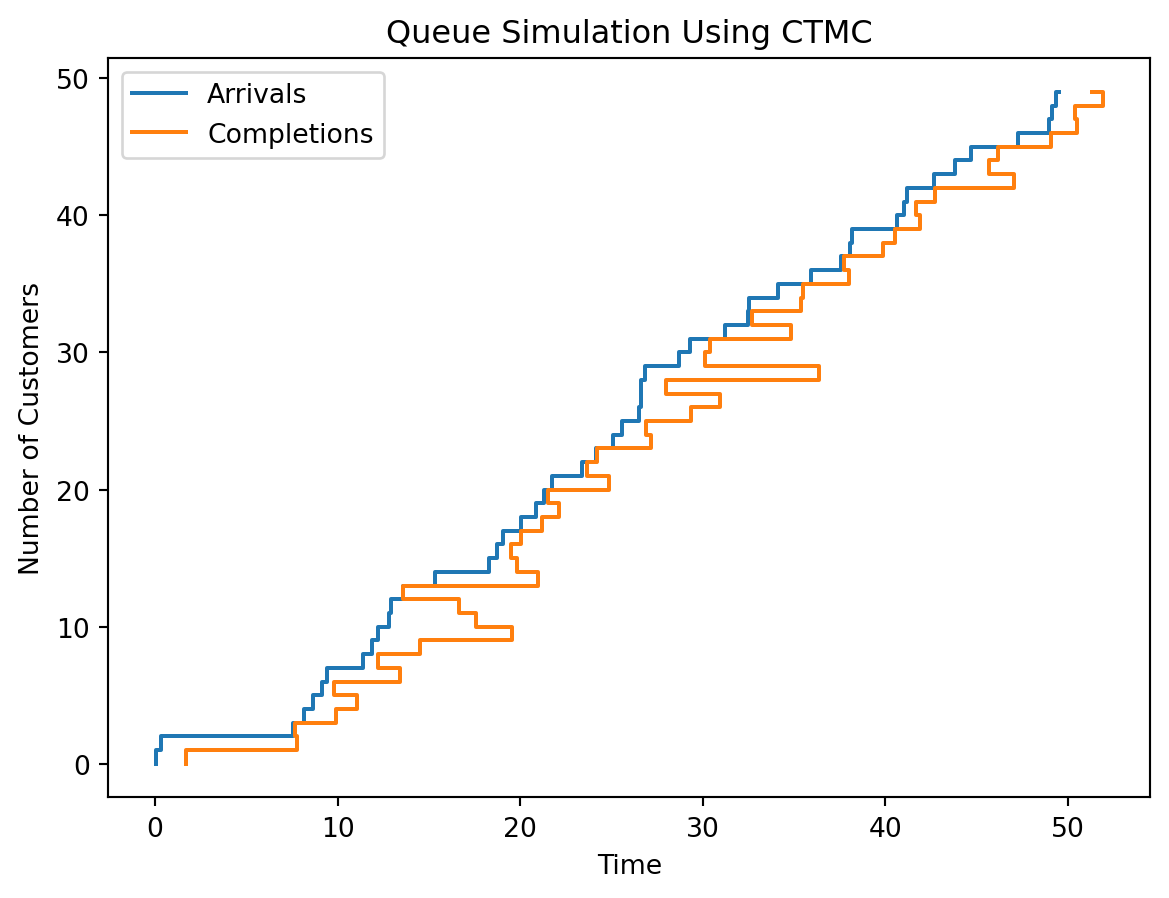
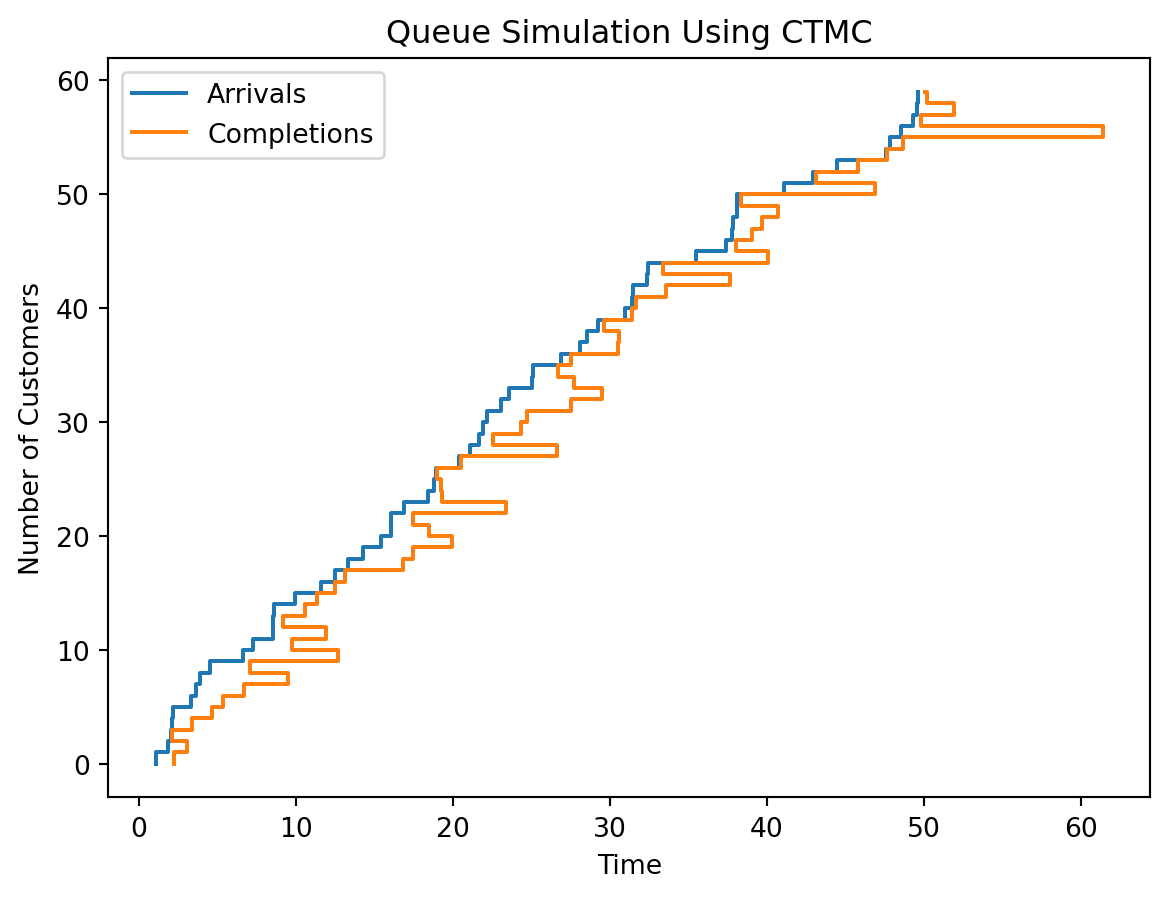
Minor

diff --git a/notes/2024-05-03.html b/notes/2024-05-03.html
@@ -165,7 +165,7 @@ window.Quarto = {
 <p>Let’s simulate both to illustrate the differences:</p>
 <p><strong>1. Simulating a Markov Chain (Discrete Time) - Gambler’s Ruin Example:</strong></p>
 <p>Here we simulate a gambler who bets until they either reach $100 or lose all their money, starting with $50, betting $1 at a time with equal probabilities of winning or losing.</p>
-<div id="9655323f" class="cell" data-execution_count="1">
+<div id="d7dd5114" class="cell" data-execution_count="1">
 <div class="sourceCode cell-code" id="cb1"><pre class="sourceCode python code-with-copy"><code class="sourceCode python"><span id="cb1-1"><a href="#cb1-1" aria-hidden="true" tabindex="-1"></a><span class="im">import</span> numpy <span class="im">as</span> np</span>
 <span id="cb1-2"><a href="#cb1-2" aria-hidden="true" tabindex="-1"></a><span class="im">import</span> matplotlib.pyplot <span class="im">as</span> plt</span>
 <span id="cb1-3"><a href="#cb1-3" aria-hidden="true" tabindex="-1"></a></span>
@@ -194,7 +194,7 @@ window.Quarto = {
 </div>
 <p><strong>2. Simulating a Continuous-Time Markov Chain (CTMC) - Simple Queue System:</strong></p>
 <p>We simulate a queue system where customers arrive according to a Poisson process (CTMC aspect), and each customer has a service time that is exponentially distributed.</p>
-<div id="09b34fbf" class="cell" data-execution_count="2">
+<div id="a9b2eb24" class="cell" data-execution_count="2">
 <div class="sourceCode cell-code" id="cb2"><pre class="sourceCode python code-with-copy"><code class="sourceCode python"><span id="cb2-1"><a href="#cb2-1" aria-hidden="true" tabindex="-1"></a><span class="kw">def</span> ctmc_queue_simulation(lam, mu, max_time):</span>
 <span id="cb2-2"><a href="#cb2-2" aria-hidden="true" tabindex="-1"></a>    current_time <span class="op">=</span> <span class="dv">0</span></span>
 <span id="cb2-3"><a href="#cb2-3" aria-hidden="true" tabindex="-1"></a>    events <span class="op">=</span> []</span>
@@ -242,10 +242,11 @@ window.Quarto = {
 <p>These examples highlight the core differences in how discrete Markov chains and CTMCs are used to model and simulate real-world processes. Each method has applications suited to different types of problems, emphasizing the need to choose the right model based on the nature of the time intervals involved in the process</p>
 <section id="step-2-mathematical-foundations-key-parameters-and-their-interpretations" class="level4">
 <h4 class="anchored" data-anchor-id="step-2-mathematical-foundations-key-parameters-and-their-interpretations"><strong>Step 2: Mathematical Foundations: Key Parameters and Their Interpretations</strong></h4>
-<p><strong>Continuous-Time Markov Chain (Q)</strong> A Continuous-Time Markov Chain (CTMC) is characterized by a set of states and the rates at which transitions occur between these states. The time that the process spends in each state is exponentially distributed, where the rate parameter is determined by the negative of the diagonal entries of the transition rate matrix <span class="math inline">\(Q\)</span>.</p>
+<p><strong>Continuous-Time Markov Chain (Q)</strong></p>
+<p>A Continuous-Time Markov Chain (CTMC) is characterized by a set of states and the rates at which transitions occur between these states. The time that the process spends in each state is exponentially distributed, where the rate parameter is determined by the negative of the diagonal entries of the transition rate matrix <span class="math inline">\(Q\)</span>.</p>
 <p><strong>Python Example: Plot a Simple CTMC</strong></p>
 <p>This example demonstrates how to visualize the transition rate matrix <span class="math inline">\(Q\)</span> for a simple three-state CTMC:</p>
-<div id="f8897f29" class="cell" data-execution_count="3">
+<div id="ec4fbe7a" class="cell" data-execution_count="3">
 <div class="sourceCode cell-code" id="cb3"><pre class="sourceCode python code-with-copy"><code class="sourceCode python"><span id="cb3-1"><a href="#cb3-1" aria-hidden="true" tabindex="-1"></a><span class="im">import</span> numpy <span class="im">as</span> np</span>
 <span id="cb3-2"><a href="#cb3-2" aria-hidden="true" tabindex="-1"></a><span class="im">import</span> matplotlib.pyplot <span class="im">as</span> plt</span>
 <span id="cb3-3"><a href="#cb3-3" aria-hidden="true" tabindex="-1"></a></span>
@@ -266,7 +267,8 @@ window.Quarto = {
 </div>
 </div>
 <p>This matrix <span class="math inline">\(Q\)</span> includes rates for transitions between all states. The off-diagonal elements indicate the rates of moving from one state to another, while the diagonal elements, being negative, signify the rates of leaving each state.</p>
-<p><strong>Subgenerator Matrix (S)</strong> The subgenerator matrix <span class="math inline">\(S\)</span> of a phase-type distribution is a key component that describes the rates at which transitions occur between the transient states of a continuous-time Markov chain (CTMC). It’s important to note that:</p>
+<p><strong>Subgenerator Matrix (S)</strong></p>
+<p>The subgenerator matrix <span class="math inline">\(S\)</span> of a phase-type distribution is a key component that describes the rates at which transitions occur between the transient states of a continuous-time Markov chain (CTMC). It’s important to note that:</p>
 <ul>
 <li>Each <strong>off-diagonal</strong> element <span class="math inline">\(S_{ij}\)</span> (where <span class="math inline">\(i \neq j\)</span>) in the matrix represents the transition rate from state <span class="math inline">\(i\)</span> to state <span class="math inline">\(j\)</span>. These values must be non-negative.</li>
 <li>Each <strong>diagonal</strong> element <span class="math inline">\(S_{ii}\)</span> is negative and its absolute value is the rate at which the process leaves state <span class="math inline">\(i\)</span>. Specifically, <span class="math inline">\(S_{ii}\)</span> is the negative of the sum of all the off-diagonal elements in row <span class="math inline">\(i\)</span>, which ensures that the total rate out of each state is accounted for.</li>
@@ -303,7 +305,7 @@ Q = \begin{bmatrix}
   \end{bmatrix}
 \]</span> This matrix <span class="math inline">\(S\)</span> is derived from <span class="math inline">\(Q\)</span> by removing the rows and columns associated with the absorbing state, focusing only on the transitions between the transient states.</p>
 <p><strong>Python Visualization</strong></p>
-<div id="7b7a0910" class="cell" data-execution_count="4">
+<div id="20f498f5" class="cell" data-execution_count="4">
 <div class="sourceCode cell-code" id="cb4"><pre class="sourceCode python code-with-copy"><code class="sourceCode python"><span id="cb4-1"><a href="#cb4-1" aria-hidden="true" tabindex="-1"></a><span class="im">import</span> numpy <span class="im">as</span> np</span>
 <span id="cb4-2"><a href="#cb4-2" aria-hidden="true" tabindex="-1"></a><span class="im">import</span> matplotlib.pyplot <span class="im">as</span> plt</span>
 <span id="cb4-3"><a href="#cb4-3" aria-hidden="true" tabindex="-1"></a></span>
@@ -340,7 +342,8 @@ Q = \begin{bmatrix}
 </div>
 <p>This code provides a visual differentiation between the complete transition rate matrix <span class="math inline">\(Q\)</span> and the subgenerator matrix <span class="math inline">\(S\)</span>, highlighting their specific roles in modeling phase-type distributions within CTMCs.</p>
 <p>If <span class="math inline">\(Q\)</span> represents a system where all states are transient (i.e., no absorbing states), then <span class="math inline">\(S\)</span> is identical to <span class="math inline">\(Q\)</span>.</p>
-<p><strong>Initial Probability Vector (α)</strong> The initial probability vector <span class="math inline">\(\alpha\)</span> specifies the probabilities of starting in each transient state at time <span class="math inline">\(t = 0\)</span>. The elements of <span class="math inline">\(\alpha\)</span> should sum to 1, reflecting a complete probability distribution across the transient states.</p>
+<p><strong>Initial Probability Vector (α)</strong></p>
+<p>The initial probability vector <span class="math inline">\(\alpha\)</span> specifies the probabilities of starting in each transient state at time <span class="math inline">\(t = 0\)</span>. The elements of <span class="math inline">\(\alpha\)</span> should sum to 1, reflecting a complete probability distribution across the transient states.</p>
 <p><strong>Interpreting the Matrix of State Probabilities</strong></p>
 <p>When you calculate <span class="math inline">\(P(t) = e^{S \times t}\)</span> using the matrix exponential, you obtain a matrix where each element <span class="math inline">\(P_{ij}(t)\)</span> represents the probability of being in state <span class="math inline">\(j\)</span> at time <span class="math inline">\(t\)</span>, given that the process started in state <span class="math inline">\(i\)</span> at time <span class="math inline">\(0\)</span>. Here’s how to read and interpret this matrix:</p>
 <ul>
@@ -350,7 +353,7 @@ Q = \begin{bmatrix}
 </ul>
 <p><strong>Python Example: Calculate and Plot State Probabilities Over Time</strong></p>
 <p>Let’s enhance the previous Python example to make it clearer how these probabilities change over time and how to visualize and interpret the resulting matrix.</p>
-<div id="48237e0d" class="cell" data-execution_count="5">
+<div id="7fbc1751" class="cell" data-execution_count="5">
 <div class="sourceCode cell-code" id="cb5"><pre class="sourceCode python code-with-copy"><code class="sourceCode python"><span id="cb5-1"><a href="#cb5-1" aria-hidden="true" tabindex="-1"></a><span class="im">from</span> scipy.linalg <span class="im">import</span> expm</span>
 <span id="cb5-2"><a href="#cb5-2" aria-hidden="true" tabindex="-1"></a><span class="im">import</span> matplotlib.pyplot <span class="im">as</span> plt</span>
 <span id="cb5-3"><a href="#cb5-3" aria-hidden="true" tabindex="-1"></a><span class="im">import</span> numpy <span class="im">as</span> np</span>
@@ -404,7 +407,7 @@ Q = \begin{bmatrix}
 <p>This step discusses several important special cases of phase-type distributions such as exponential, Erlang, hyperexponential, and Coxian distributions.</p>
 <p><strong>Python Example: Generate Data from an Erlang Distribution</strong></p>
 <p>Generate and visualize data from an Erlang distribution, which is a common model for aggregated exponential processes like service times in systems:</p>
-<div id="49290443" class="cell" data-execution_count="6">
+<div id="14286d1f" class="cell" data-execution_count="6">
 <div class="sourceCode cell-code" id="cb6"><pre class="sourceCode python code-with-copy"><code class="sourceCode python"><span id="cb6-1"><a href="#cb6-1" aria-hidden="true" tabindex="-1"></a><span class="im">import</span> numpy <span class="im">as</span> np</span>
 <span id="cb6-2"><a href="#cb6-2" aria-hidden="true" tabindex="-1"></a><span class="im">import</span> matplotlib.pyplot <span class="im">as</span> plt</span>
 <span id="cb6-3"><a href="#cb6-3" aria-hidden="true" tabindex="-1"></a></span>
@@ -429,7 +432,7 @@ Q = \begin{bmatrix}
 <p>Explore the application of phase-type distributions in scheduling based on the study by Kuiper et al.&nbsp;These distributions can model the time until the next event in a queue, which is crucial for optimizing scheduling systems.</p>
 <p><strong>Python Example: Simulate a Scheduling Scenario</strong></p>
 <p>Simulate interarrival times and service times in a simple scheduling model:</p>
-<div id="41ba2e2c" class="cell" data-execution_count="7">
+<div id="a5e59d86" class="cell" data-execution_count="7">
 <div class="sourceCode cell-code" id="cb7"><pre class="sourceCode python code-with-copy"><code class="sourceCode python"><span id="cb7-1"><a href="#cb7-1" aria-hidden="true" tabindex="-1"></a><span class="co"># Simulate interarrival and service times</span></span>
 <span id="cb7-2"><a href="#cb7-2" aria-hidden="true" tabindex="-1"></a>interarrival_times <span class="op">=</span> np.random.exponential(scale<span class="op">=</span><span class="dv">2</span>, size<span class="op">=</span><span class="dv">100</span>)</span>
 <span id="cb7-3"><a href="#cb7-3" aria-hidden="true" tabindex="-1"></a>service_times <span class="op">=</span> np.random.gamma(shape<span class="op">=</span><span class="dv">2</span>, scale<span class="op">=</span><span class="fl">1.5</span>, size<span class="op">=</span><span class="dv">100</span>)</span>
@@ -445,7 +448,7 @@ Q = \begin{bmatrix}
 <div class="cell-output cell-output-display">
 <div>
 <figure class="figure">
-<p><img src="2024-05-03_files/figure-html/cell-8-output-1.png" width="951" height="505" class="figure-img"></p>
+<p><img src="2024-05-03_files/figure-html/cell-8-output-1.png" width="938" height="505" class="figure-img"></p>
 </figure>
 </div>
 </div>
@@ -470,7 +473,7 @@ Q = \begin{bmatrix}
 <p>We’ll implement an example of fitting an Erlang distribution (a special case of phase-type distributions with identical phases) using both methods. The Erlang distribution is chosen for its relative simplicity while still capturing the essence of the process.</p>
 <p><strong>Generating Sample Data</strong></p>
 <p>First, we’ll generate some synthetic data that follows an Erlang distribution:</p>
-<div id="232939b7" class="cell" data-execution_count="8">
+<div id="d1de6399" class="cell" data-execution_count="8">
 <div class="sourceCode cell-code" id="cb8"><pre class="sourceCode python code-with-copy"><code class="sourceCode python"><span id="cb8-1"><a href="#cb8-1" aria-hidden="true" tabindex="-1"></a><span class="im">import</span> numpy <span class="im">as</span> np</span>
 <span id="cb8-2"><a href="#cb8-2" aria-hidden="true" tabindex="-1"></a><span class="im">import</span> matplotlib.pyplot <span class="im">as</span> plt</span>
 <span id="cb8-3"><a href="#cb8-3" aria-hidden="true" tabindex="-1"></a><span class="im">from</span> scipy.stats <span class="im">import</span> erlang</span>
@@ -488,14 +491,14 @@ Q = \begin{bmatrix}
 <div class="cell-output cell-output-display">
 <div>
 <figure class="figure">
-<p><img src="2024-05-03_files/figure-html/cell-9-output-1.png" width="566" height="431" class="figure-img"></p>
+<p><img src="2024-05-03_files/figure-html/cell-9-output-1.png" width="574" height="431" class="figure-img"></p>
 </figure>
 </div>
 </div>
 </div>
 <p><strong>Method of Moments</strong></p>
 <p>We’ll calculate the empirical mean and variance and use these to estimate the parameters of the Erlang distribution:</p>
-<div id="309a58e0" class="cell" data-execution_count="9">
+<div id="9b94e42d" class="cell" data-execution_count="9">
 <div class="sourceCode cell-code" id="cb9"><pre class="sourceCode python code-with-copy"><code class="sourceCode python"><span id="cb9-1"><a href="#cb9-1" aria-hidden="true" tabindex="-1"></a>empirical_mean <span class="op">=</span> np.mean(data)</span>
 <span id="cb9-2"><a href="#cb9-2" aria-hidden="true" tabindex="-1"></a>empirical_var <span class="op">=</span> np.var(data)</span>
 <span id="cb9-3"><a href="#cb9-3" aria-hidden="true" tabindex="-1"></a></span>
@@ -515,19 +518,19 @@ Q = \begin{bmatrix}
 <span id="cb9-17"><a href="#cb9-17" aria-hidden="true" tabindex="-1"></a>plt.show()</span></code><button title="Copy to Clipboard" class="code-copy-button"><i class="bi"></i></button></pre></div>
 <div class="cell-output cell-output-stdout">
 <pre><code>Estimated Shape (k): 3
-Estimated Rate (lambda): 0.4811218445310684</code></pre>
+Estimated Rate (lambda): 0.5037506905983797</code></pre>
 </div>
 <div class="cell-output cell-output-display">
 <div>
 <figure class="figure">
-<p><img src="2024-05-03_files/figure-html/cell-10-output-2.png" width="579" height="431" class="figure-img"></p>
+<p><img src="2024-05-03_files/figure-html/cell-10-output-2.png" width="586" height="431" class="figure-img"></p>
 </figure>
 </div>
 </div>
 </div>
 <p><strong>Maximum Likelihood Estimation</strong></p>
 <p>For MLE, we can use optimization routines available in libraries such as SciPy to find the best-fit parameters:</p>
-<div id="cc74e15d" class="cell" data-execution_count="10">
+<div id="80b27a4b" class="cell" data-execution_count="10">
 <div class="sourceCode cell-code" id="cb11"><pre class="sourceCode python code-with-copy"><code class="sourceCode python"><span id="cb11-1"><a href="#cb11-1" aria-hidden="true" tabindex="-1"></a><span class="im">from</span> scipy.optimize <span class="im">import</span> minimize</span>
 <span id="cb11-2"><a href="#cb11-2" aria-hidden="true" tabindex="-1"></a><span class="im">from</span> scipy.stats <span class="im">import</span> gamma</span>
 <span id="cb11-3"><a href="#cb11-3" aria-hidden="true" tabindex="-1"></a></span>
@@ -554,19 +557,19 @@ Estimated Rate (lambda): 0.4811218445310684</code></pre>
 <span id="cb11-24"><a href="#cb11-24" aria-hidden="true" tabindex="-1"></a>plt.legend()</span>
 <span id="cb11-25"><a href="#cb11-25" aria-hidden="true" tabindex="-1"></a>plt.show()</span></code><button title="Copy to Clipboard" class="code-copy-button"><i class="bi"></i></button></pre></div>
 <div class="cell-output cell-output-stdout">
-<pre><code>Best Fit Shape: 3.0153156568284474
-Best Fit Scale: 2.0679181266875135</code></pre>
+<pre><code>Best Fit Shape: 3.0273222229711454
+Best Fit Scale: 1.9672017149259864</code></pre>
 </div>
 <div class="cell-output cell-output-stderr">
 <pre><code>/Users/witoldtenhove/Library/Python/3.9/lib/python/site-packages/scipy/stats/_continuous_distns.py:3417: RuntimeWarning:
 
-The shape parameter of the erlang distribution has been given a non-integer value array(3.01531566).
+The shape parameter of the erlang distribution has been given a non-integer value array(3.02732222).
 </code></pre>
 </div>
 <div class="cell-output cell-output-display">
 <div>
 <figure class="figure">
-<p><img src="2024-05-03_files/figure-html/cell-11-output-3.png" width="571" height="431" class="figure-img"></p>
+<p><img src="2024-05-03_files/figure-html/cell-11-output-3.png" width="578" height="431" class="figure-img"></p>
 </figure>
 </div>
 </div>
